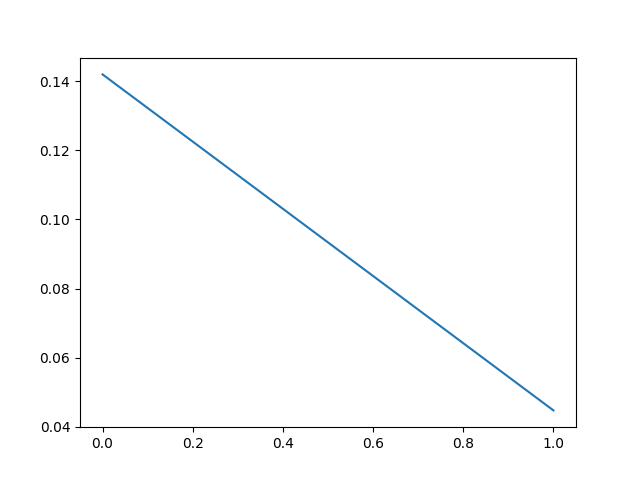
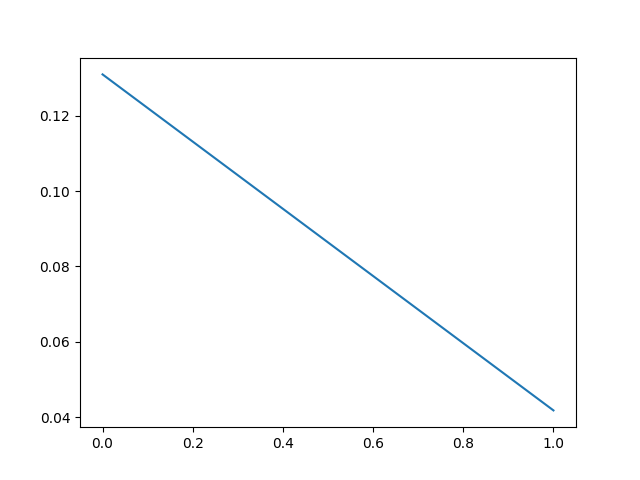
test save acc plt

diff --git a/ResNet/train.py b/ResNet/train.py
@@ -16,7 +16,77 @@ x_test = x_test.astype("float32")
 train = tf.data.Dataset.from_tensor_slices((x_train, y_train)).shuffle(10000).batch(32)
 test = tf.data.Dataset.from_tensor_slices((x_test, y_test)).batch(32)
 
-model = char_model()
+#----------------------------------------------------------------------------------------#
+
+resnet = ResNet50()
+
+res_loss = tf.keras.losses.SparseCategoricalCrossentropy(from_logits=True)
+res_optimizer = tf.keras.optimizers.Adam()
+
+res_train_loss = tf.keras.metrics.Mean(name='train_loss')
+res_train_accuracy = tf.keras.metrics.SparseCategoricalAccuracy(name='train_accuracy')
+
+res_test_loss = tf.keras.metrics.Mean(name='test_loss')
+res_test_accuracy = tf.keras.metrics.SparseCategoricalAccuracy(name='test_accuracy')
+
+@tf.function
+def res_train_step(images, labels):
+    with tf.GradientTape() as tape:
+        predictions = resnet(images, training=True)
+        l = res_loss(labels, predictions)
+    gradients = tape.gradient(l, resnet.trainable_variables)
+    res_optimizer.apply_gradients(zip(gradients, resnet.trainable_variables))
+
+    res_train_loss(l)
+    res_train_accuracy(labels, predictions)
+
+@tf.function
+def res_test_step(images, labels):
+    predictions = resnet(images, training=False)
+    t_l = res_loss(labels, predictions)
+
+    res_test_loss(t_l)
+    res_test_accuracy(labels, predictions)
+
+
+EPOCHS = 50
+
+#ResNet50 Train
+res_loss = []
+res_val_loss = []
+res_train_acc = []
+res_test_acc = []
+for epoch in range(EPOCHS):
+    print("\nepoch {}/{}".format(epoch+1,EPOCHS))
+    res_train_loss.reset_states()
+    res_train_accuracy.reset_states()
+    res_test_loss.reset_states()
+    res_test_accuracy.reset_states()
+
+    pbar = tf.keras.utils.Progbar(len(train))
+    for i, d in enumerate(train):
+        images, labels = d
+        res_train_step(images, labels)
+        pbar.update(i+1)
+
+    for test_images, test_labels in test:
+        res_test_step(test_images, test_labels)
+
+    template = 'Epoch {}, Loss: {}, Accuracy: {}, Test Loss: {}, Test Accuracy: {}'
+    print(template.format(epoch + 1,
+                        res_train_loss.result(),
+                        res_train_accuracy.result() * 100,
+                        res_test_loss.result(),
+                        res_test_accuracy.result() * 100))
+
+    res_loss.append(train_loss.result())
+    res_val_loss.append(res_test_loss.result())
+    res_train_acc.append(res_train_accuracy.result())
+    res_test_acc.append(res_test_accuracy.result())
+print(model.summary())
+
+
+#------------------------------------------------------------------------------------------#
 
 loss = tf.keras.losses.SparseCategoricalCrossentropy(from_logits=True)
 optimizer = tf.keras.optimizers.Adam()
@@ -28,29 +98,32 @@ test_loss = tf.keras.metrics.Mean(name='test_loss')
 test_accuracy = tf.keras.metrics.SparseCategoricalAccuracy(name='test_accuracy')
 
 @tf.function
-def train_step(images, labels):
+def vanilla_train_step(images, labels):
     with tf.GradientTape() as tape:
         predictions = model(images, training=True)
         l = loss(labels, predictions)
-    gradients = tape.gradient(l, model.trainable_variables)
-    optimizer.apply_gradients(zip(gradients, model.trainable_variables))
+    gradients = tape.gradient(l, vanilla.trainable_variables)
+    optimizer.apply_gradients(zip(gradients, vanilla.trainable_variables))
 
     train_loss(l)
     train_accuracy(labels, predictions)
 
-@tf.function
-def test_step(images, labels):
-    predictions = model(images, training=False)
+@tf.fucntion
+def vanilla_test_step(images, labels):
+    predictions = vanilla(images, training=False)
     t_l = loss(labels, predictions)
 
     test_loss(t_l)
     test_accuracy(labels, predictions)
 
 
-EPOCHS = 50
-
+#Vanilla Model
+vanilla_loss = []
+vanilla_val_loss = []
+vanilla_train_acc = []
+vanilla_test_acc = []
 for epoch in range(EPOCHS):
-    print("\nepoch {}/{}".format(epoch+1,EPOCHS))
+    print("\nepoch {}/{}".format(epoch+1, EPOCHS))
     train_loss.reset_states()
     train_accuracy.reset_states()
     test_loss.reset_states()
@@ -71,4 +144,14 @@ for epoch in range(EPOCHS):
                         train_accuracy.result() * 100,
                         test_loss.result(),
                         test_accuracy.result() * 100))
+
+    vanilla_loss.append(train_loss.result())
+    vanilla_val_loss.append(test_loss.result())
+    vanilla_train_acc.append(train_accuracy.result())
+    vanilla_test_acc.append(test_accuracy.result())
 print(model.summary())
+
+
+
+import matplotlib.pyplot as plt
+

diff --git a/helloworld.py b/helloworld.py
@@ -67,6 +67,7 @@ def test_step(images, labels):
 
 EPOCHS = 2
 
+acc = []
 loss = []
 for epoch in range(EPOCHS):
   # Reset the metrics at the start of the next epoch
@@ -88,9 +89,11 @@ for epoch in range(EPOCHS):
                         test_loss.result(),
                         test_accuracy.result() * 100))
   loss.append(train_loss.result())
-
+  acc.append(train_accuracy.result())
 print(loss)
 import matplotlib.pyplot as plt
 
 plt.plot(loss)
 plt.savefig('test_save_loss_plt.png')
+plt.plot(acc)
+plt.savefig('test_save_acc_plt.png')

diff --git a/ResNet/model.py b/ResNet/model.py
@@ -6,7 +6,7 @@ import tensorflow as tf
 from tensorflow.keras.layers import Activation, Dense, Flatten, Conv2D, MaxPooling2D, BatchNormalization, Add, Dropout
 from tensorflow.keras import Model
 
-class char_model(Model):
+class ResNet50(Model):
     def __init__(self):
         super(char_model, self).__init__()
         self.conv1 = Conv2D(32, 3, activation='relu', input_shape=(32,32,32,3))
